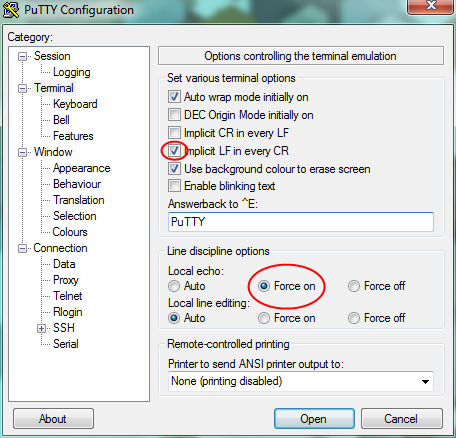
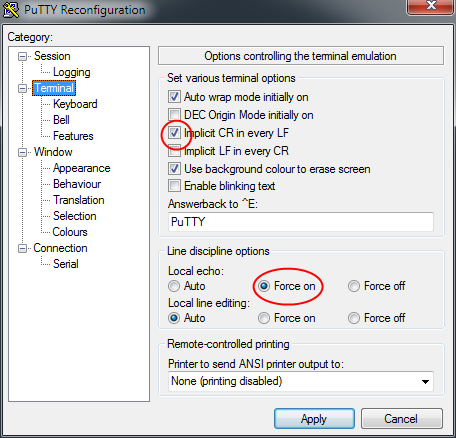
Fix putty image

diff --git a/source/clsdrv/serial_port.rst b/source/clsdrv/serial_port.rst
@@ -137,7 +137,7 @@ The total number of the read characters can be saved like this:
 .. code-block:: c++
 
     size_t nread;
-    pc.getline(line, *nread);
+    pc.getline(line, &nread);
 
 Delimitation character and ``\0`` aren't added to *nread*.
 
@@ -170,6 +170,7 @@ delimitation character, define it as a third argument like this:
 
     .. code-block:: c++
 
+        int i = 0;
         pc.getline(line);
         sscanf(line, "%d", &i);
 
@@ -191,18 +192,23 @@ delimitation character, define it as a third argument like this:
 Flush and other supportive functions
 ------------------------------------
 
-Sometimes you need to flush all bytes read into the input buffer. This
+Sometimes you need to flush the input buffer from all read bytes. This
 can be done with ``flush()`` member function. If you like to know
 how many bytes have been received, call ``bytes_available()``.
 
-It's also possible that the input buffer gets overflown. This can can
+It's also possible that the input buffer gets overflown. This can
 be checked by calling ``has_overflown()``. If the buffer has been
 overflown, you can reset the serial port by calling ``reset()``.
 
 Hardware handshaking
 --------------------
 
-To enable hardware handshaking just call ``pc.enable_hw_handshaking();``.
+To enable hardware handshaking just call:
+
+.. code-block:: c++
+
+    pc.enable_hw_handshaking();
+
 When the handshaking is enabled the receiver drives the RTS pin and the level
 on the CTS pin modifies the behavior of the transmitter.
 
@@ -218,9 +224,8 @@ widely used.
 
 If you choose to use PuTTY, select serial and set up the port (serial line)
 and speed. Before saving the session go to the Terminal slide and enable
-*Implicit LF in every CR*. Additionally force the local echo to see what you
-type. If you want to use Linux type line termination, select *Implicit CR in
-every LF* and use **CTRL+J** to send lines instead of pressing **ENTER**.
+*Implicit CR in every LF*. Additionally force the local echo to see what you
+type. Use **CTRL+J** to send lines instead of pressing **ENTER**.
 
 .. image:: ../../images/putty1.png
     :width: 8 cm
@@ -230,5 +235,5 @@ every LF* and use **CTRL+J** to send lines instead of pressing **ENTER**.
 .. image:: ../../images/putty2.png
     :width: 8 cm
     :target: ../_images/putty2.png
-    :alt: PuTTY enable implicit LF in every CR
+    :alt: PuTTY enable implicit CR in every LF
 

diff --git a/source/clsdrv/periph_iodma.rst b/source/clsdrv/periph_iodma.rst
@@ -1,7 +1,7 @@
 Peripheral Input/Output DMA, `#include <aery32/periph_iodma.h> <https://github.com/aery32/aery32/blob/master/aery32/aery32/periph_iodma_clsdrv.h>`_
 ===========================
 
-AVR32 microcontrollers have PDCA module (Peripheral DMA Controller), which
+AVR32 microcontrollers have a PDCA module (Peripheral DMA Controller), which
 allows direct memory access (DMA) between peripheral hardware and MCU's memory
 independently of the central processing unit (CPU). This feature is useful
 when the CPU cannot keep up with the rate of data transfer, or where the CPU
@@ -11,7 +11,7 @@ transfer.
 Aery32 Framework implements two types of peripheral DMA drivers, input and output.
 Input type driver can transfer data from a peripheral to memory whereas output
 type driver transfers data from memory to a peripheral. For example, when using
-USART peripheral to communicate with PC, input DMA writes data from PC to
+USART peripheral to communicate with PC, input DMA transmit data from PC to
 MCU and output DMA from MCU to PC.
 
 Class instantiation
@@ -109,7 +109,7 @@ To poll the input buffer whether there are bytes which to read call
     input.bytes_available();
 
 If you suspect that the buffer has been overflown and thus needs to be reset
-you can do it like this:
+you can do the reset like this:
 
 .. code-block:: c++
 
@@ -117,7 +117,7 @@ you can do it like this:
         input.reset();
 
 In case you want to remove all bytes from the input buffer once and for all
-call:
+call ``flush()``:
 
 .. code-block:: c++
 
@@ -138,7 +138,7 @@ you have to call ``flush()``.
 
 .. code-block:: c++
 
-    output.write(dest, 1);
+    output.write(src, 1);
     output.flush();
 
 After calling ``flush()`` you can follow the send process like this:

diff --git a/source/functions/usart.rst b/source/functions/usart.rst
@@ -36,7 +36,7 @@ bit/s (error 0.8%).
 
 The last parameter is the divider for the fractional part which could have
 been also omitted because it was set to zero. We could have set the 
-fractional part here to 5 to get even smaller baud rate error (0.015%).
+fractional part here to 5 to get even smaller baud rate error (0.16%).
 
 At last you have to enable RX and TX channels separately for receiving
 and transmitting data
